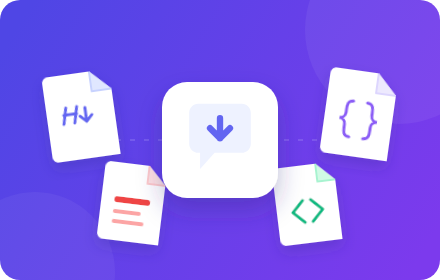
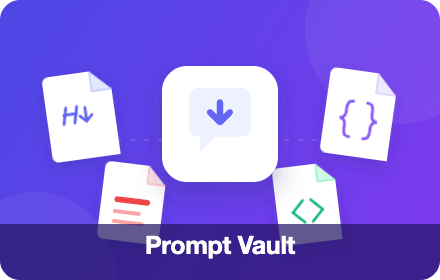
[DOCS] Refresh Web Store listing for v1.10.2, and add a Korean localized set (#65)
* [DOCS] Refresh Chrome Web Store listing copy and screenshots for v1.10.2

The submission assets had drifted two releases behind the code and asserted two
things that are false:

- `_locales/{en,ko}` appDesc still read "ChatGPT first" and named only
  Markdown/PDF, though Claude and Gemini adapters and the JSON/HTML exporters
  have shipped since.
- The listing copy called bulk export "ChatGPT-only", though v1.10.0 shipped
  Claude's sidebar, project and `/recents` bulk tracks. Gemini is the only
  single-conversation-only provider (`src/adapters/gemini/index.ts:87`).

Screenshots (2026-07-29, v1.7) are replaced by a five-shot set captured against
v1.10.1, adding the two views the old set could not show: the bulk panel, and a
second provider. Conversations in them were created for the capture inside a
throwaway project, with sidebars collapsed, so no pre-existing conversation
title or account name appears. Captions and the toolbar highlight are
composited over unmodified captures.

The promo tile now names the product. Two PDF rendering artifacts found during
the capture are filed in backlog.md, confirmed against the PDF text layer.

* [DOCS] Rewrite the Korean listing copy in plain Korean, and record what the store localizes

The Korean description read as a translation of the English one — causative
"보관하게 해 줍니다", passive "전송되지 않습니다", and a mechanical noun-label
bullet pattern ("100% 로컬.", "최소 권한.", "잘린 저장 없음."). Rewritten as
[…]

diff --git a/docs/store-listing.md b/docs/store-listing.md
@@ -27,48 +27,55 @@ click saves the open conversation to your computer in the format you choose:
 • JSON (.json) — structured, round-trippable data
 • HTML (.html) — a self-contained document you can open in any browser
 
-Need more than one conversation? Enable the bulk-export button, choose conversations from
-the sidebar, and export the selected set in one format.
+Need more than one conversation? Open the bulk-export panel, tick the conversations you
+want, and save the whole set in one format and one run. On ChatGPT and Claude you can do
+this from the sidebar, from a project's conversation list, or — on Claude — from the full
+history page at claude.ai/recents.
 
 Key points:
 • 100% local. The extension makes no network requests and sends nothing to any server.
   Your conversations never leave your browser.
 • Least privilege. It runs only on ChatGPT (chatgpt.com), Claude (claude.ai) and
   Gemini (gemini.google.com), and requests only the minimum permissions needed.
+• Fails loud, not short. When an export cannot be read, the extension shows an error
+  instead of downloading a half-empty file.
 • Choose your toolbar. The extension popup lets you show or hide each export format icon
   and the bulk-export icon.
 • English and Korean UI follows your browser language.
 
-Supported providers: ChatGPT, Claude and Gemini. Bulk export is currently ChatGPT-only.
+Supported providers: ChatGPT, Claude and Gemini. Bulk export is available on ChatGPT and
+Claude; Gemini supports single-conversation export.
 ```
 
 ### Description (Korean, optional listing)
 
 ```
-Prompt Vault는 AI 채팅 대화를 로컬 파일로 저장해 계정이나 클라우드 없이 영구 사본을
-보관하게 해 줍니다. 대화 데이터는 브라우저 밖으로 전송되지 않습니다.
+Prompt Vault는 AI와 나눈 대화를 내 컴퓨터에 파일로 남겨 둡니다. 계정도 클라우드도 필요
+없고, 대화 내용이 브라우저 밖으로 나가는 일도 없습니다.
 
-ChatGPT, Claude, Gemini 대화 페이지 헤더에 내보내기 버튼이 나타납니다. 클릭 한 번으로
-현재 대화를 원하는 형식으로 컴퓨터에 저장합니다.
+ChatGPT, Claude, Gemini 대화창 위쪽에 내보내기 버튼이 생깁니다. 원하는 형식을 한 번
+누르면 지금 보고 있는 대화가 그대로 파일이 됩니다.
 
-• Markdown (.md) — 제목과 코드 블록이 보존된 이식성 좋은 텍스트
-• PDF (.pdf) — 선택 가능한 텍스트, 한글/CJK 글꼴과 고정폭 코드 블록 지원
-• JSON (.json) — 구조화된 왕복 변환용 데이터
-• HTML (.html) — 어떤 브라우저에서도 열 수 있는 자체 완결 문서
+• Markdown (.md) — 제목과 코드 블록을 그대로 살린 가벼운 텍스트
+• PDF (.pdf) — 글자를 그대로 복사해 쓸 수 있고, 한글도 코드도 깨지지 않습니다
+• JSON (.json) — 다시 불러 쓰기 좋은 구조화 데이터
+• HTML (.html) — 브라우저만 있으면 바로 열리는 한 장짜리 문서
 
-여러 대화가 필요하면 일괄 내보내기 버튼을 활성화하고 사이드바에서 대화를 선택해 한
-형식으로 저장할 수 있습니다.
+여러 개를 한꺼번에 챙기고 싶다면 일괄 내보내기 창을 열고 원하는 대화만 골라 담으세요.
+ChatGPT와 Claude는 사이드바에서도, 프로젝트 대화 목록에서도 되고, Claude는 전체 기록
+페이지(claude.ai/recents)에서도 됩니다.
 
-핵심:
-• 100% 로컬. 확장 프로그램 자체는 네트워크 요청을 하지 않으며 어떤 서버로도 대화를
-  보내지 않습니다.
-• 최소 권한. ChatGPT(chatgpt.com), Claude(claude.ai), Gemini(gemini.google.com)에서만
-  동작합니다.
-• 툴바 선택. 확장 프로그램 팝업에서 형식별 아이콘과 일괄 내보내기 아이콘을 표시하거나
-  숨길 수 있습니다.
-• 브라우저 언어에 따라 영어 또는 한국어 UI를 표시합니다.
+이런 점을 신경 썼습니다.
+• 전부 기기 안에서 처리합니다. 확장 프로그램은 어디로도 요청을 보내지 않습니다.
+• 권한은 꼭 필요한 만큼만. ChatGPT(chatgpt.com), Claude(claude.ai),
+  Gemini(gemini.google.com) 세 곳에서만 동작합니다.
+• 문제가 생기면 알려 드립니다. 대화를 읽어 오지 못하면 반쪽짜리 파일을 내려받는 대신
+  오류를 띄웁니다.
+• 툴바가 번잡하면 팝업에서 필요 없는 형식 아이콘과 일괄 내보내기 아이콘을 꺼 두세요.
+• 브라우저 언어에 맞춰 한국어나 영어로 나옵니다.
 
-현재 지원하는 서비스는 ChatGPT, Claude, Gemini입니다. 일괄 내보내기는 ChatGPT에서만 제공됩니다.
+지원하는 서비스는 ChatGPT, Claude, Gemini입니다. 일괄 내보내기는 ChatGPT와 Claude에서
+쓸 수 있고, Gemini는 대화를 하나씩 내보냅니다.
 ```
 
 ### Single-purpose statement (Privacy tab)
@@ -76,10 +83,19 @@ ChatGPT, Claude, Gemini 대화 페이지 헤더에 내보내기 버튼이 나타
 ```
 Prompt Vault has one purpose: to export the user's own AI chat conversations to local
 Markdown, PDF, JSON, or HTML files. It supports ChatGPT, Claude and Gemini. The user exports the
-open conversation or, on ChatGPT, selects a set of sidebar conversations through the
-optional bulk action. The extension reads conversation content only in response to that
-user action and only to create local downloads.
+open conversation or, on ChatGPT and Claude, selects a set of conversations from the sidebar
+or a project list — and on Claude also from the full history page — through the optional bulk
+action. The extension reads conversation content only in response to that user action and
+only to create local downloads.
 ```
+
+**Check every quality claim against the repo's own caveats before it ships.** Listing copy and
+screenshot captions are product claims, and the code records where it cannot keep them: adapter
+doc comments (`src/adapters/gemini/index.ts` on the residual silent-truncation hazard) and open
+`backlog.md` items. This cycle produced both failure modes in one pass — a "nothing silently
+truncated" bullet the loaders explicitly disclaim, and a fidelity screenshot displaying two
+filed rendering defects. Grep the backlog and the adapter comments for the subject of any
+absolute claim; prefer "fails loud" over "never fails".
 
 ## Privacy and permission declarations
 
@@ -118,21 +134,76 @@ Data-use declarations:
 | Asset | Requirement | Repository status |
 |-------|-------------|-------------------|
 | Store icon | 128×128 PNG | Ready: `public/icons/icon128.png` |
-| Screenshots | 1280×800 PNG/JPEG; 1–5 images; at least one required | Ready: `assets/store/screenshot-{01-chatgpt-toolbar,02-settings,03-exported-pdf}.png` |
-| Small promotional tile | 440×280 PNG; required | Ready: `assets/store/small-promo-440x280.png` |
+| Screenshots (global / English listing) | 1280×800 PNG/JPEG; 1–5 images; at least one required | Ready: `assets/store/screenshot-0{1..5}-*.png` (captured 2026-08-11 against v1.10.1; 1.10.2 changed listing copy only, no UI) |
+| Screenshots (Korean listing) | same requirement, uploaded under the `ko` locale | Ready: `assets/store/ko/screenshot-0{1..5}-*.png` — the same five *views*, captured separately, so the content differs (Korean UI, Korean conversations, and a different selection count in shot 2) |
+| Small promotional tile | 440×280 PNG; required | Ready: `assets/store/small-promo-440x280.png`, rendered from the sibling `.svg` |
 | Marquee promotional tile | 1400×560 PNG; optional | Not prepared; omit for launch |
 
+**Per-locale assets.** The dashboard localizes the listing per language: description, screenshots
+and the promotional video can each differ by locale, and a localized screenshot is shown ahead of
+the global one to a viewer in that language. The **store icon, category, small promo tile and
+marquee promo tile cannot be localized** — one set serves every locale, which is why the tile's
+wordmark stays English. So the Korean listing can carry its own Korean-UI screenshot set without
+disturbing the English one; it is optional, and until it exists the English set is what Korean
+viewers see. Keep the two sets describing the same features — the store warns on localized
+metadata that changes the described feature set.
+([source](https://developer.chrome.com/docs/webstore/cws-dashboard-listing), checked 2026-08-11)
+
 Do not mock or reconstruct product screenshots. Capture the installed extension on a real,
-logged-in ChatGPT session, then remove or obscure account details, private conversation
-titles, avatars, and other personal information. Keep each final image exactly 1280×800.
+logged-in session, then remove or obscure account details, private conversation titles,
+avatars, and other personal information. The shipped set was captured with the sidebar
+collapsed and every conversation created for the capture inside a throwaway
+**Prompt Vault Demo** project, so no pre-existing conversation title appears in any image.
+The caption band and the highlight ring around the toolbar icons are composited on top of
+the unmodified capture — never edit the product pixels themselves. Keep each final image
+exactly 1280×800.
 
-Recommended screenshot set:
+Shipped screenshot set (in listing order):
 
-1. Sanitized ChatGPT conversation with MD, PDF, JSON, HTML, and Bulk controls visible in
-   the conversation header.
-2. Extension popup showing format visibility and bulk-export settings.
-3. Exported PDF containing non-sensitive English/Korean text and a code block, demonstrating
-   selectable text and correctly rendered CJK glyphs.
+1. `screenshot-01-chatgpt-toolbar` — ChatGPT conversation, MD/PDF/JSON/HTML/Bulk controls
+   ringed in the conversation header.
+2. `screenshot-02-project-bulk-export` — the bulk panel over a ChatGPT project home with every
+   conversation selected (four in the English capture, five in the Korean one, which was taken
+   after another demo conversation was added).
+3. `screenshot-03-claude-conversation` — the same toolbar on Claude, evidence for the
+   multi-provider claim. Captioned "Same buttons on Claude", not "…and Gemini": no Gemini
+   pixel is in frame, and a caption must not claim more than its own image shows.
+4. `screenshot-04-popup-settings` — the extension popup's format and bulk-icon toggles.
+5. `screenshot-05-exported-pdf` — a real exported PDF with mixed English/Korean prose and
+   code blocks, demonstrating selectable text and correctly rendered CJK glyphs. Its demo
+   conversation deliberately holds Python and shell only: the first capture used a JavaScript
+   answer and put both open PDF defects on display — the code font's ligature turned `=>` into
+   `⇒`, and an inline-code run kept its backticks (both filed in `backlog.md`). Choosing content
+   that avoids them keeps the caption true of the image, but it hides a defect that is still
+   there, so **re-capture this shot from a conversation containing `=>` once those two items
+   land** — that is the version worth shipping.
+
+**Capturing in English on a Korean machine.** macOS Chrome takes its UI language from the OS —
+there is no "display Chrome in this language" control in `chrome://settings/languages` — so
+`chrome.i18n` resolves to `ko` and the extension's own popup and bulk panel render Korean. Two
+moves cover most of the frame without touching the user's own Chrome or any account setting:
+
+- Reorder the *capture profile's* language list so English (US) is first. That flips the
+  `Accept-Language` header, which is enough for ChatGPT's UI and for Claude's page title and
+  server-rendered strings on the next load.
+- Temporarily copy `public/_locales/en/messages.json` over `dist/_locales/ko/messages.json` and
+  reload the unpacked extension. `dist/` is gitignored, so this never reaches a tracked file.
+  Restore the file and reload again when finished.
+
+The Korean set needs none of that — it is what this machine produces untouched. Capture it
+*before* switching anything, or restore both settings first: the header order, and `dist/`'s own
+`ko` messages file. The two sets cover the same five views, so a change to what a view *shows* is a change to
+both — but they are separate captures, and their conversation content and counts differ.
+
+**What that does NOT cover, measured 2026-08-11:** strings Claude renders from
+`navigator.language` stay Korean regardless of the header — in the shipped
+`screenshot-03-claude-conversation.png` the native Share control still reads `공유`. Claude has no
+UI-language setting to change either (`claude.ai/settings/general`'s only language control is
+under **음성/Voice**, and it governs speech, not the interface). The remaining route is launching
+the capture browser with `--lang=en-US`, which the Playwright MCP server is not configured to
+pass; changing that is a user-scoped MCP config edit, so propose it rather than assuming it.
+Collapse the sidebar before capturing either way — it is what keeps the conversation history and
+account name out of frame, and it removes most of the Korean nav at the same time.
 
 ## Submission checklist
 
@@ -149,7 +220,7 @@ Recommended screenshot set:
 ### Live capture
 
 - [x] Use a non-sensitive demonstration conversation
-- [x] Capture three real screenshots at 1280×800
+- [x] Capture five real screenshots at 1280×800 (2026-08-11, extension v1.10.1 — no UI change in 1.10.2)
 - [x] Inspect every image for names, email addresses, avatars, sidebar history, and private text
 - [x] Confirm PDF Korean/CJK glyphs render without missing-glyph boxes
 
@@ -158,8 +229,10 @@ Recommended screenshot set:
 - [ ] Create or verify the Chrome Web Store developer account and complete registration payment
 - [ ] Upload `prompt-vault-v<version>.zip`
 - [ ] Paste the listing fields and select Productivity
-- [ ] Upload `public/icons/icon128.png`, 1–5 screenshots, and
-  `assets/store/small-promo-440x280.png`
+- [ ] Upload `public/icons/icon128.png`, the five `assets/store/screenshot-*.png` in numbered
+  order, and `assets/store/small-promo-440x280.png`
+- [ ] Add the Korean locale to the listing, paste the Korean description, and upload the five
+  `assets/store/ko/screenshot-*.png` in the same order
 - [ ] Enter the single-purpose statement and permission justifications
 - [ ] Confirm the privacy-policy URL is publicly accessible, then enter it
 - [ ] Complete data-use certifications so they match the declarations above

diff --git a/backlog.md b/backlog.md
@@ -30,6 +30,36 @@ continuation line is invisible to it and the blocked item is offered as actionab
 
 ## Review Backlog
 
+### Store screenshot follow-ups (PR #65 review, 2026-08-11)
+
+- [ ] *(blocked by: needs `--lang=en-US` on the capture browser, which is a user-scoped Playwright MCP config change — propose it, do not assume it)*
+      [FIX] The English-listing `screenshot-03-claude-conversation.png` still shows Claude's
+      native Share control as `공유`. Claude renders that string from `navigator.language`, which
+      follows the OS UI language, so neither the `Accept-Language` reorder nor an account setting
+      moves it — see the capture notes in `docs/store-listing.md`. Re-capture once the browser can
+      be launched in English, or drop shot 3 from the English set rather than ship mixed-language
+      product chrome.
+- [ ] [FIX] Re-capture `screenshot-05-exported-pdf.png` (both locales) from a conversation that
+      contains `=>` and an inline-code run, once the two PDF rendering items below are fixed. The
+      shipped capture uses Python/shell only, which keeps the caption honest but means the shot no
+      longer exercises the two cases most likely to regress.
+
+### PDF rendering artifacts seen while capturing store screenshots (2026-08-11)
+
+> Both were observed in a real export (`chatgpt-…-Python-and-bash-snippets-20260811.pdf`) made
+> while capturing `assets/store/screenshot-05-exported-pdf.png`. Cosmetic, but they land in the
+> one artifact the listing shows off, so they are worth closing before wide distribution.
+
+- [ ] [FIX] Inline code loses its markers in the PDF but keeps its backticks. A prose run that
+      ChatGPT renders as `<code>reduce()</code>` reaches the PDF as the literal text
+      `` `reduce()` `` — the Markdown fence is emitted, but the PDF has no inline-code style to
+      justify it. Decide one way: style the run (monospace/tint) and drop the backticks, or leave
+      the text plain. Pin whichever with a test on the PDF text runs.
+- [ ] [FIX] The PDF's monospace font substitutes coding ligatures into code text. `=>` renders as
+      `⇒` in an exported JavaScript block, so what the reader copies out of the PDF does not match
+      what the page showed. Disable the ligature feature for the code font (or pick a
+      non-ligature face) and assert `=>` survives a round trip.
+
 ### QA pass on the `/recents` bulk track + empty-project fix (2026-08-11)
 
 > Non-blocking findings from the independent QA of the sprint that shipped the Claude `/recents`

diff --git a/CHANGELOG.md b/CHANGELOG.md
@@ -2,6 +2,23 @@
 
 ## Unreleased
 
+- [done] Store submission assets refreshed for v1.10.2 (2026-08-11) → docs/store-listing.md. The
+  listing had drifted two releases behind the code and stated two things that were false: the
+  manifest description still read "ChatGPT first" and named only Markdown/PDF, and the listing
+  copy still called bulk export "ChatGPT-only" after v1.10.0 shipped Claude's sidebar, project and
+  `/recents` tracks. Both corrected, in `_locales` and in the listing. The screenshots (captured
+  2026-07-29 against v1.7) were replaced with a five-shot set captured against v1.10.1: the
+  ChatGPT toolbar with the export controls ringed, the project bulk panel, the same toolbar on
+  Claude, the popup toggles, and a real exported PDF. Every conversation in them was created for
+  the capture inside a throwaway project and every sidebar collapsed, so no pre-existing
+  conversation title or account name appears. The small promo tile now carries the product name.
+  Capturing an English frame on a Korean machine needed two moves that are now written down —
+  `Accept-Language` reordering in the capture profile, and a temporary English `dist` locale —
+  because macOS Chrome takes `chrome.i18n` from the OS and neither is discoverable from the code.
+  The exported PDF also surfaced two rendering artifacts, both confirmed against the PDF's own
+  text layer rather than the rendered page (the layer holds `=>` and literal backticks, so the
+  substitution is the font's and the fence is the exporter's); they are filed, not fixed.
+
 - [done] Claude /recents QA follow-ups (v1.10.1) (2026-08-11) → docs/live-dom-verification.md
 - [done] Claude bulk export via /recents (v1.10.0) (2026-08-11) → docs/live-dom-verification.md
 - [done] Fail loud when a Claude project route renders no conversation table (v1.9.2) (2026-08-10)

diff --git a/AGENTS.md b/AGENTS.md
@@ -5,9 +5,9 @@
 # prompt-vault Agent Rules
 
 Browser extension (Manifest V3) that backs up AI chat conversations to local files
-(Markdown / PDF). Supports ChatGPT, Claude and Gemini via per-site adapters; bulk and
-project export are ChatGPT-only so far. All processing is local — conversation data never
-leaves the browser.
+(Markdown / PDF / JSON / HTML). Supports ChatGPT, Claude and Gemini via per-site adapters;
+bulk and project export work on ChatGPT and Claude, Gemini is single-conversation only.
+All processing is local — conversation data never leaves the browser.
 
 ## Docs Index (read on demand)
 
